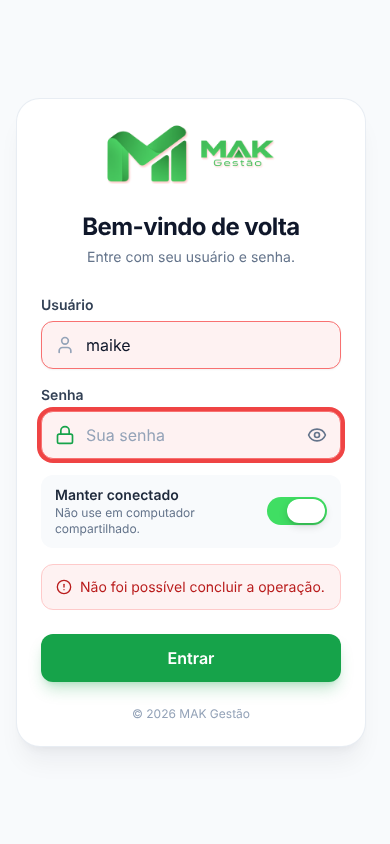
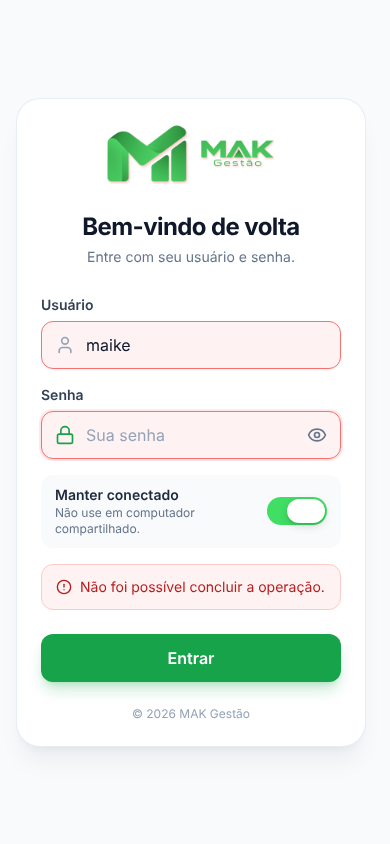
Entrada: borda de foco e de erro mais fina nos campos
Claude-Session: https://claude.ai/code/session_01UazgFfaVrfzGvoj5VQP7sQ

Changed region(s): [[0.0923, 0.4621, 0.8923, 0.5545]]

diff --git a/src/components/auth/NativeLoginForm.jsx b/src/components/auth/NativeLoginForm.jsx
@@ -56,7 +56,7 @@ const gravarPreferencias = ({ login, lembrar }) => {
 };
 
 const CAMPO_CLASSE =
-  'peer h-12 w-full rounded-xl border border-slate-300 bg-white pl-11 pr-3 text-base text-slate-900 shadow-sm outline-none transition placeholder:text-slate-400 hover:border-slate-400 focus:border-[#22c55e] focus:ring-4 focus:ring-[#40de63]/25 aria-[invalid=true]:border-red-400';
+  'peer h-12 w-full rounded-xl border border-slate-300 bg-white pl-11 pr-3 text-base text-slate-900 shadow-sm outline-none transition placeholder:text-slate-400 hover:border-slate-400 focus:border-[#22c55e] focus:ring-2 focus:ring-[#40de63]/20 aria-[invalid=true]:border-red-400 aria-[invalid=true]:focus:border-red-400 aria-[invalid=true]:focus:ring-red-400/15';
 
 /**
  * @param {{onAutenticado: (sessao: {usuario: object, clienteId: string}) => void,
